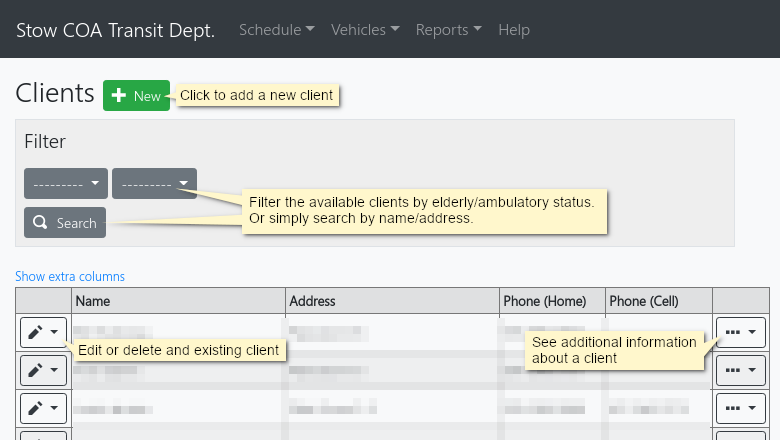
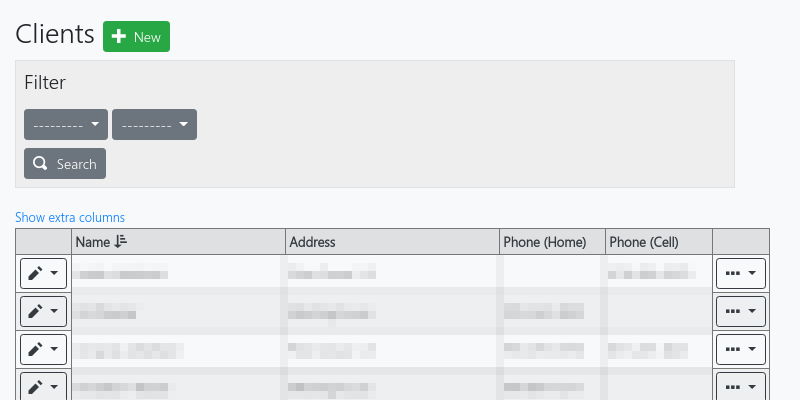
Help: Finish clients/destinations/templates page
Instead of baking the text hints into screenshots, it is now done with
CSS.

diff --git a/transit/templates/help/clients-destinations-and-templates.html b/transit/templates/help/clients-destinations-and-templates.html
@@ -2,22 +2,69 @@
 {% block help_content %}
 <p>It is highly recommended to set up clients and templates before creating schedules. Doing so will make creating recurring trips easier and less prone to typo errors.</p>
 
+<hr/>
+
 <h4>Clients</h4>
 
-<p>The <strong><a href="/transit/clients/">Clients</a></strong> page can be accessed via the main menu under <em>Schedule >> Edit Clients</em>.</p>
+<p>The <strong><a href="{% url 'clients' %}">Clients</a></strong> page can be accessed via the main menu under <em>Schedule &gt;&gt; Clients</em>.</p>
 
-<p>The clients created here will appear in the drop-down of the <strong>Name</strong> field when creating trips in a template or schedule.</p>
+<p>The clients created here will appear in the drop-down of the <strong>Name</strong> field when creating trips in a template or schedule. Defining clients here allows fields such as the address and phone number to be automatically filled in when creating trips.</p>
 
-<p><img src="/transit/static/img/help_clients.png" alt="The clients page" /></p>
+<div class="help-img">
+    <img src="/transit/static/img/help_clients.png" alt="The clients page"/>
+    <div class="help-img-text help-img-text-left" style="left: 180px; top: 20px;">Create a new client</div>
+    <div class="help-img-text help-img-text-left" style="left: 210px; top: 110px;">Filter the available clients by elderly and ambulatory status...</div>
+    <div class="help-img-text help-img-text-left" style="left: 120px; top: 160px;">...Or simply search by name and address</div>
+    <div class="help-img-text help-img-text-left" style="left: 70px; top: 260px;">Edit or delete an existing client</div>
+    <div class="help-img-text help-img-text-right" style="right: 90px; top: 260px;">See additional information about a client<br/>Clicking <em>"Show extra columns"</em> will also reveal this information</div>
+</div>
 
 <p>The available fields when creating a client are fairly straight-forward:</p>
 
 <ul>
-<li><strong>Name</strong> - The client&rsquo;s full name</li>
-<li><strong>Address</strong> - The client&rsquo;s home address</li>
-<li><strong>Phone</strong> - The client&rsquo;s home and/or cell phone number</li>
+<li><strong>Name</strong> - The client's full name</li>
+<li><strong>Address</strong> - The client's home address</li>
+<li><strong>Phone</strong> - The client's home and/or cell phone number</li>
 <li><strong>Elderly</strong> - Is the client elderly?</li>
 <li><strong>Ambulatory</strong> - Is the client ambulatory?</li>
 <li><strong>Tags</strong> - A list of user-defined labels, separated by commas.</li>
 </ul>
+
+<hr/>
+
+<h4>Destinations</h4>
+<p>The <strong><a href="{% url 'destinations' %}">Destinations</a></strong> page can be accessed via the main menu under <em>Schedule &gt;&gt; Destinations</em>.</p>
+
+<p>Much like clients, destinations provide a way to quickly populate fields when creating trips in a template or schedule. When creating a trip, destinations defined here will appear in the drop-down of the <strong>Pick-Up Address</strong> and <strong>Destination Address</strong> fields.</p>
+
+<p>Destinations only have two fields to define: the <strong>Address</strong> and, optionally, the <strong>Phone</strong> number.</p>
+
+<hr/>
+
+<h4>Templates</h4>
+
+<p>The <strong><a href="{% url 'templates' %}">Templates</a></strong> page can be accessed via the main menu under <em>Schedule &gt;&gt; Templates</em>.</p>
+
+<p>For things such as daily schedules and regular group outings, templates can be created to speed up inserting multiple trips into the schedule.</p>
+
+<div class="help-img">
+    <img src="/transit/static/img/help_templates.png" alt="The templates page"/>
+    <div class="help-img-text help-img-text-left" style="left: 215px; top: 20px;">Create a new template</div>
+    <div class="help-img-text help-img-text-left" style="left: 110px; top: 90px;">Edit the template name or delete the template</div>
+    <div class="help-img-text help-img-text-left" style="left: 55px; top: 140px;">Change the order that templates appear</div>
+    <div class="help-img-text help-img-text-right" style="right: 150px; top: 210px;">Add or edit trips and activities in this template</div>
+</div>
+
+<p>Once a template has been created, clicking on <em>Edit Trips</em> will lead to the page where trips and activities can be added or edited.</p>
+
+<div class="help-img">
+    <img src="/transit/static/img/help_template_trips.png" alt="The Edit Trips page for a 'Thursday' template"/>
+    <div class="help-img-text help-img-text-left" style="left: 475px; top: 20px;">Create a new trip or activity</div>
+    <div class="help-img-text help-img-text-left" style="left: 110px; top: 130px;">Edit or delete the trip or activity<br/>For trips, there are shortcuts to copy the trip, create a return trip, or create a client</div>
+    <div class="help-img-text help-img-text-left" style="left: 55px; top: 245px;">Change the order of trips</div>
+    <div class="help-img-text help-img-text-right" style="right: 65px; top: 250px;">See additional information about a trip<br/>Clicking <em>"Show extra columns"</em> will also reveal this information</div>
+</div>
+
+<p>Trips and activities are added and modifed in templates the same way they are in the main schedule. The next section, <a href="{% url 'help-topic' 'editing-the-schedule' %}">Editing the Schedule</a>, will cover this topic in greater detail.</p>
+
 {% endblock %}

diff --git a/transit/templates/help.html b/transit/templates/help.html
@@ -1,34 +1,106 @@
 {% extends "base_generic.html" %}
 
 {% block auth_content %}
+<style type="text/css">
+.help-img {
+    position: relative;
+    margin-bottom: 1em;
+    display: inline-block;
+}
+
+.help-img img {
+    border: 1px solid #999;
+    box-shadow: 2px 2px 4px #00000044;
+}
+
+.help-img-text {
+    position: absolute;
+    background: #000000cc;
+    color: #fff;
+    font-weight: bold;
+    padding: 0.4em;
+    font-size: 80%;
+	border-radius: 4px;
+    cursor: default;
+    max-width: 200px;
+}
+
+.help-img-text-left:after {
+	content: '';
+	position: absolute;
+	left: 0;
+	top: 12px;
+	width: 0;
+	height: 0;
+	border: 8px solid transparent;
+	border-right-color: #000000cc;
+	border-left: 0;
+	margin-top: -8px;
+	margin-left: -8px;
+}
+
+.help-img-text-right:after {
+    content: '';
+	position: absolute;
+	right: 0;
+	top: 12px;
+	width: 0;
+	height: 0;
+	border: 8px solid transparent;
+	border-left-color: #000000cc;
+	border-right: 0;
+	margin-top: -8px;
+	margin-right: -8px;
+}
+
+.help-img-text:hover {
+    background: #000000;
+}
+
+.help-img-text-left:hover:after {
+    border-right-color: #000000;
+}
+
+.help-img-text-right:hover:after {
+    border-left-color: #000000;
+}
+</style>
 <h2>Help</h2>
 <hr/>
 <div class="container ml-0">
     <div class="row">
-        {% if topics %}
-        <div class="col-xs-auto pb-4">
-            <div class="list-group">
-            {% for topic in topics %}
-            <a href="{% url 'help-topic' topic.1 %}" class="list-group-item list-group-item-action {% if topic.1 == topic_current.1 %}active{% endif %}">{{ topic.0 }}</a>
-            {% endfor %}
-            </div>
-        </div>
-        {% endif %}
         <div class="col">
             <h3>{{ topic_current.0 }}</h3>
             {% block help_content %}
             {% endblock %}
+            <hr/>
             <div class="row">
-                <div class="col-auto mr-auto">
-                    {% if topic_prev %}
-                    <a href="{% url 'help-topic' topic_prev.1 %}" class="btn btn-primary"><span class="oi oi-arrow-left mr-2"></span>{{ topic_prev.0 }}</a>
+                <div class="col-auto pt-1 pb-1">
+                    {% if topics %}
+                    <div class="dropdown">
+                        <button class="btn btn-secondary dropdown-toggle" type="button" data-toggle="dropdown" aria-haspopup="true" aria-expanded="false">
+                            {{topic_current.0 }}
+                        </button>
+                        <div class="dropdown-menu shadow">
+                        {% for topic in topics %}
+                        <a href="{% url 'help-topic' topic.1 %}" class="dropdown-item {% if topic.1 == topic_current.1 %}active{% endif %}">{{ topic.0 }}</a>
+                        {% endfor %}
+                        </div>
+                    </div>
                     {% endif %}
                 </div>
-                <div class="col-auto">
-                    {% if topic_next %}
-                    <a href="{% url 'help-topic' topic_next.1 %}" class="btn btn-primary">{{ topic_next.0 }}<span class="oi oi-arrow-right ml-2"></span></a>
-                    {% endif %}
+            </div>
+            <div class="row">
+                {% if topic_prev %}
+                <div class="col-auto pt-1 pb-1">
+                    <a href="{% url 'help-topic' topic_prev.1 %}" class="btn btn-primary"><span class="oi oi-arrow-left mr-2"></span>Previous</a>
                 </div>
+                {% endif %}
+                {% if topic_next %}
+                <div class="col-auto pt-1 pb-1">
+                    <a href="{% url 'help-topic' topic_next.1 %}" class="btn btn-primary">Next<span class="oi oi-arrow-right ml-2"></span></a>
+                </div>
+                {% endif %}
             </div>
         </div>
     </div>

diff --git a/transit/templates/help/drivers-vehicles-and-trip-types.html b/transit/templates/help/drivers-vehicles-and-trip-types.html
@@ -3,12 +3,17 @@
 <p>Before using the schedule system, it is important to first set up the available <strong>drivers</strong> and <strong>vehicles</strong>, as well as the different <strong>trip types</strong>.</p>
 
 <p>Your administrator has likely already done this for you, but it is worth reviewing this section to learn how to add, edit, and re-order these items.</p>
-
+<hr/>
 <h4>Drivers</h4>
 
-<p>The <strong><a href="/transit/drivers/">Drivers</a></strong> page can be accessed via the main menu under <em>Schedule >> Edit Drivers</em>.</p>
+<p>The <strong><a href="{% url 'drivers' %}">Drivers</a></strong> page can be accessed via the main menu under <em>Schedule &gt;&gt; Drivers</em>.</p>
 
-<p><img src="/transit/static/img/help_drivers_list.png" alt="The drivers page" /></p>
+<div class="help-img">
+    <img src="/transit/static/img/help_drivers_list.png" alt="The drivers page" />
+    <div class="help-img-text help-img-text-left" style="left: 180px; top: 20px;">Create a new driver</div>
+    <div class="help-img-text help-img-text-left" style="left: 110px; top: 90px;">Edit an existing driver</div>
+    <div class="help-img-text help-img-text-left" style="left: 55px; top: 165px;">Change the order that drivers will appear</div>
+</div>
 
 <p>When creating or editing a driver, the following properties can be changed:</p>
 
@@ -18,18 +23,21 @@
 <li><strong>Is logged?</strong> - Whether or not this driver is displayed in various places. Generally, employed drivers should be logged, and volunteers should not be logged.</li>
 </ul>
 
+<hr/>
 
 <h4>Vehicles</h4>
 
-<p>The <strong><a href="/transit/vehicles/">Vehicles</a></strong> page can be accessed via the main menu under <em>Schedule >> Edit Vehicles</em>.</p>
+<p>The <strong><a href="{% url 'vehicles' %}">Vehicles</a></strong> page can be accessed via the main menu under <em>Vehicles &gt;&gt; Vehicles</em>.</p>
 
 <p>Everything here is similar to dealing with drivers, except vehicles only have two properties: <strong>Name</strong> and <strong>Is logged?</strong></p>
 
-<p>In most scenarios, all vehicles will be logged. The notable exception being a &ldquo;personal&rdquo; vehicle.</p>
+<p>In most scenarios, all vehicles will be logged. The notable exception being a "personal" vehicle.</p>
+
+<hr/>
 
 <h4>Trip Types</h4>
 
-<p>The <strong><a href="/transit/triptypes">Trip Types</a></strong> page can be accessed via the main menu under <em>Schedule >> Edit Trip Types</em>.</p>
+<p>The <strong><a href="{% url 'triptypes' %}">Trip Types</a></strong> page can be accessed via the main menu under <em>Schedule &gt;&gt; Trip Types</em>.</p>
 
 <p>For monthly reports that require a breakdown of trips by type, said types can be set up here. Again, the interface here is identical to editing drivers and vehicles. Trip types only have one property, which is their display <strong>Name</strong>.</p>
 {% endblock %}

diff --git a/transit/templates/help/editing-the-schedule.html b/transit/templates/help/editing-the-schedule.html
@@ -1,3 +1,5 @@
 {% extends "help.html" %}
 {% block help_content %}
+<p>There are two types of entries that can be added to the schedule: <strong>activities</strong> and <strong>trips</strong>.</p>
+<p>Activities are suitable for things such as staff meetings, designated office time, etc. They consist of a <strong>Description</strong>, plus an optional <strong>Start Time</strong> and <strong>End Time</strong>.</p>
 {% endblock %}
